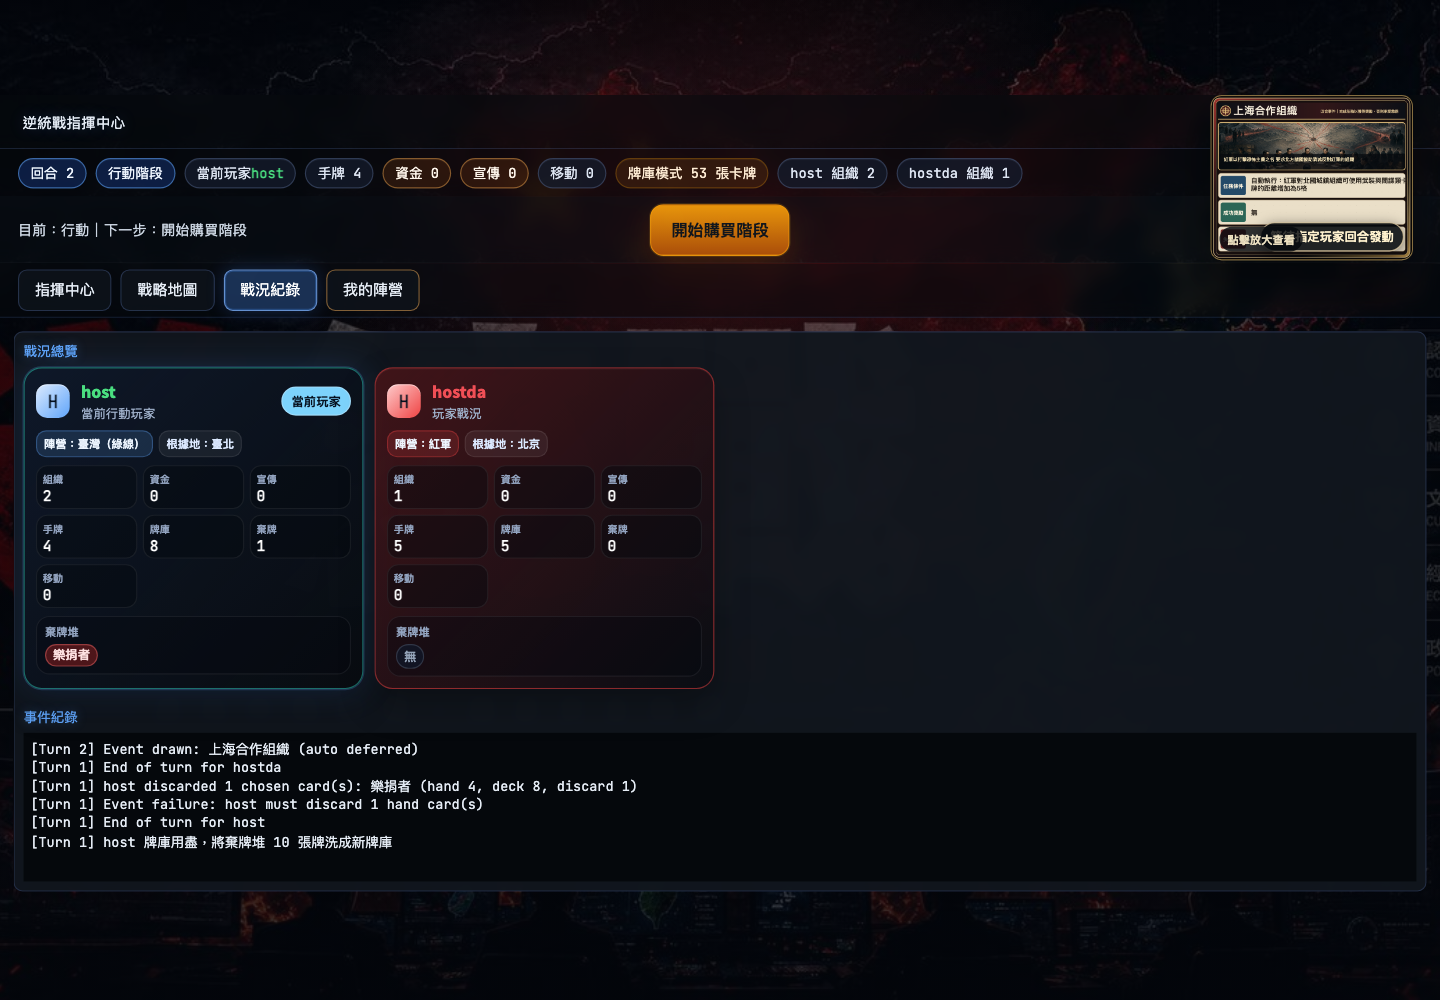
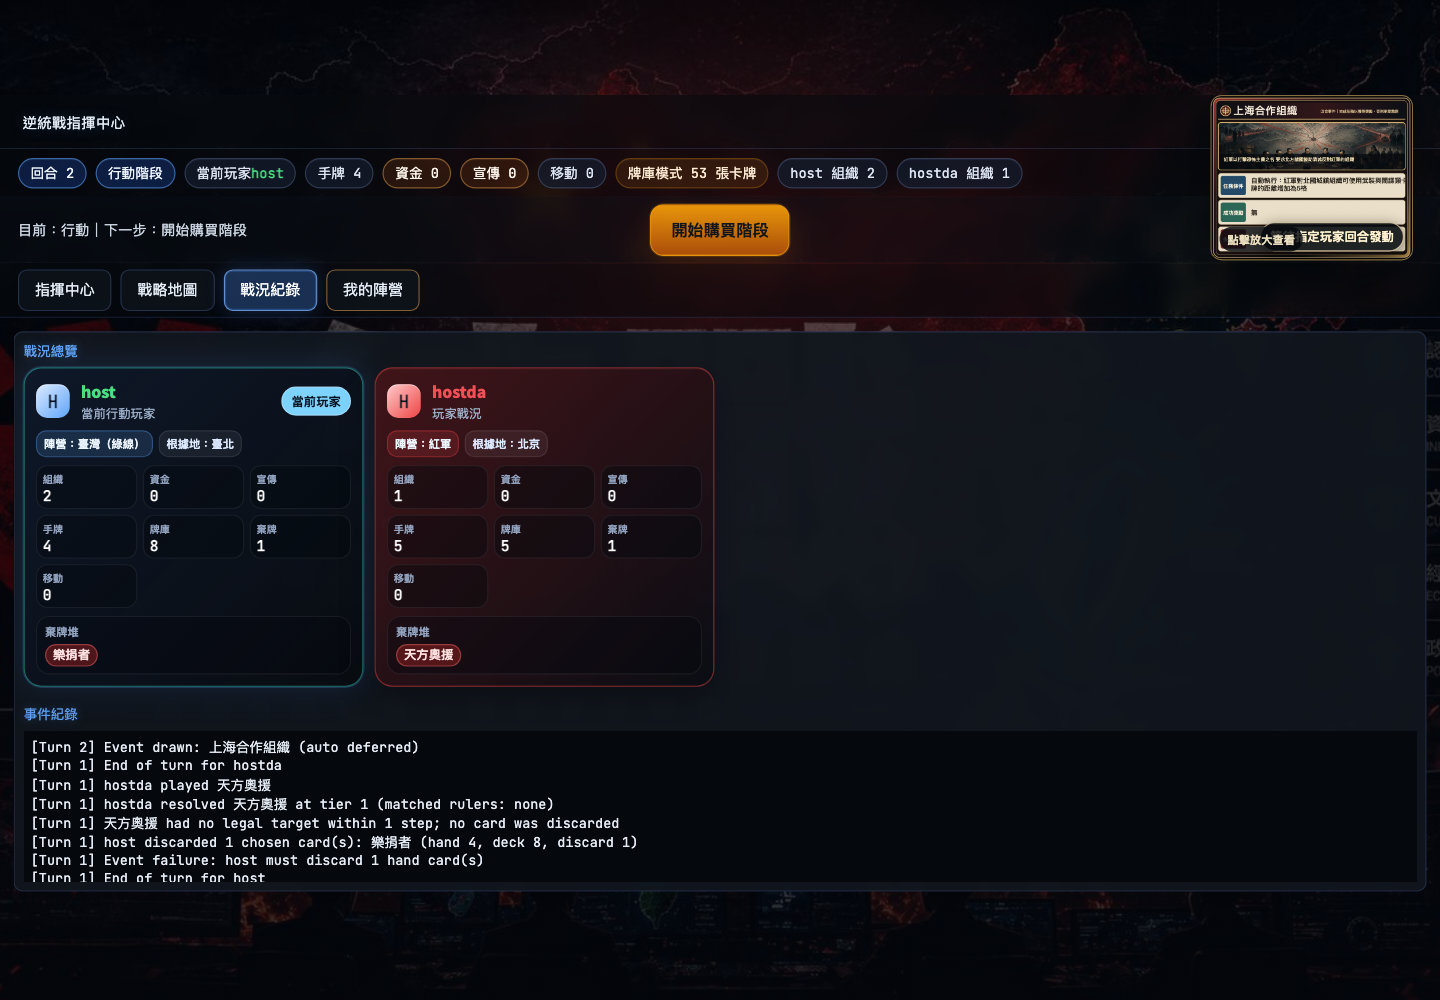
fix Tianfang support out-of-range discard

Changed region(s): [[0.0, 0.682, 0.4375, 0.899], [0.25, 0.62, 0.3438, 0.713]]

diff --git a/scripts/validate_red_end_turn_single_discard.py b/scripts/validate_red_end_turn_single_discard.py
@@ -160,6 +160,17 @@ def run_elite_defection_scenario(browser):
       const factionClose = document.getElementById('closeFactionActionModal');
       if (factionClose) factionClose.click();
     }""")
+    red_page.click('button.hand-card-action-btn[data-card-name="天方奧援"][data-card-mode="action"]')
+    red_page.wait_for_function(
+        '() => (window.lastGameState?.action_log || []).some(line => line.includes("天方奧援 had no legal target within 1 step"))',
+        timeout=10000,
+    )
+    page.wait_for_function(
+        '() => (window.lastGameState?.action_log || []).some(line => line.includes("天方奧援 had no legal target within 1 step"))',
+        timeout=10000,
+    )
+    after_tianfang_state = page.evaluate('() => window.lastGameState')
+    after_tianfang = player_snapshot(after_tianfang_state, fixture['player_id'])
     red_page.click('#advanceStepBtn')
     red_page.wait_for_function('() => window.lastGameState?.turn_phase === "end"')
     red_page.click('#advanceStepBtn')
@@ -188,8 +199,10 @@ def run_elite_defection_scenario(browser):
         and after['deck_count'] == 8
         and after['discard_count'] == 1
         and after['discard_pile'] == ['樂捐者']
+        and after_tianfang == after
         and after_red_turn == after
         and any('host discarded 1 chosen card(s): 樂捐者 (hand 4, deck 8, discard 1)' in line for line in action_log)
+        and any('天方奧援 had no legal target within 1 step; no card was discarded' in line for line in next_round_log)
         and any('Event drawn: 上海合作組織' in line for line in next_round_log)
         and not console_errors
     )
@@ -199,6 +212,7 @@ def run_elite_defection_scenario(browser):
         'before': before,
         'pending_after_refill': pending,
         'after': after,
+        'after_tianfang_no_legal_target': after_tianfang,
         'after_red_turn_and_shanghai_event': after_red_turn,
         'action_log': action_log,
         'next_round_log': next_round_log,

diff --git a/server/game.py b/server/game.py
@@ -3120,14 +3120,11 @@ class Game:
             if not built:
                 pass
         elif effect_type == 'force_discard_near':
-            count = int(payload.get('count', 0) or 0)
-            random_pick = bool(payload.get('random'))
-            target = next((other for other in self.players if other is not player and other.hand), None)
-            if target:
-                for _ in range(min(count, len(target.hand))):
-                    idx = 0 if not random_pick else random.randrange(len(target.hand))
-                    discarded = target.hand.pop(idx)
-                    target.deck.discard([discarded])
+            # This effect is always interactive. Reaching this branch means there was no
+            # player with hand cards within one step of the actor's organizations. Do not
+            # fall back to an arbitrary opponent: that bypasses range and (at tier 1)
+            # silently discards the first card without the target's required choice.
+            self.log(f"{card_name} had no legal target within 1 step; no card was discarded")
         self.log(f"{player.name} resolved {card_name} at tier {tier} (matched rulers: {', '.join(matched) if matched else 'none'})")
         return {'tier': tier, 'matched_rulers': matched, 'effect_type': effect_type, 'effect_text': self._support_card_effect_text(card_name, tier, region_index)}
 

diff --git a/scripts/tests/test_action_card_regressions.py b/scripts/tests/test_action_card_regressions.py
@@ -838,6 +838,28 @@ def test_cancel_reaction_prompt_can_select_one_reaction_card_to_cancel_action():
     assert g.turn_log.get('canceled_card') is True
 
 
+def test_tianfang_support_with_no_in_range_target_does_not_silently_discard():
+    g = make_game()
+    actor, target = g.players
+    actor.hand = [g._make_support_card('天方奧援')]
+    actor.organizations = {'北京': 1}
+    target.organizations = {'臺北': 1}
+    first_donor = Card('樂捐者', 'resource', {'money': 1})
+    second_donor = Card('樂捐者', 'resource', {'money': 1})
+    target.hand = [first_donor, Card('其他手牌', 'command', {})]
+    target.deck.draw_pile = [Card(f'牌庫{i}', 'command', {}) for i in range(8)]
+    target.deck.discard_pile = [second_donor]
+
+    result = g.play_card(0, mode='action')
+
+    assert result.get('success'), result
+    assert not result.get('pending_choice')
+    assert names(target.hand) == ['樂捐者', '其他手牌']
+    assert len(target.deck.draw_pile) == 8
+    assert names(target.deck.discard_pile) == ['樂捐者']
+    assert any('天方奧援 had no legal target within 1 step' in line for line in g.action_log)
+
+
 def test_tianfang_support_tier1_prompts_actor_target_choice_then_target_discard_choice():
     g = make_game()
     p1, p2 = g.players

diff --git a/server/main.py b/server/main.py
@@ -2237,7 +2237,7 @@ def test_setup_elite_defection_discard_proof(payload: dict):
     host.hand = []
     host.deck.draw_pile = [Card("牌庫甲", "command", {}), Card("牌庫乙", "command", {}), selected_donor]
     host.deck.discard_pile = [played_donor] + [Card(f"既有棄牌{i}", "command", {}) for i in range(9)]
-    red.hand = [Card(f"紅軍手牌{i}", "command", {}) for i in range(5)]
+    red.hand = [game._make_support_card("天方奧援")] + [Card(f"紅軍手牌{i}", "command", {}) for i in range(4)]
 
     game.game_phase = GamePhase.MAIN
     game.turn_phase = TurnPhase.END

diff --git a/scripts/tests/test_current_playtest_batch.py b/scripts/tests/test_current_playtest_batch.py
@@ -76,7 +76,9 @@ def test_elite_defection_failure_after_refill_discards_exactly_one_named_card():
     assert len(host.hand) == 4
     assert len(host.deck.draw_pile) == 8
     assert host.deck.discard_pile == [selected_donor]
-    assert played_donor in host.deck.draw_pile
+    remaining_non_discard = host.hand + host.deck.draw_pile
+    assert played_donor in remaining_non_discard
+    assert sum(card is played_donor for card in remaining_non_discard) == 1
     assert any('host discarded 1 chosen card(s): 樂捐者' in line for line in game.action_log)
 
 

diff --git a/TODO.md b/TODO.md
@@ -88,14 +88,15 @@
   - 需檢查：`北國奧援` 各級效果的 pending-choice 建立與結算時點、support card 出牌是否過早移出手牌、choice cancellable policy、前端取消按鈕，以及取消後的卡牌／行動／階段狀態還原。
   - 2026-07-29 已修正：初始選擇可交易式取消，還原卡牌位置、購買費用旗標與 pending；第一個目標結算後取消即關閉。同步修正 III 級 `count:2` 連續瓦解。unit 7/7 與 browser `BEIGUO_TWO_STAGE_DISSOLVE_VALIDATION` 7/7。
 
-- [investigating] Playtest deck lifecycle investigation：紅軍結束回合時棄牌堆似乎會被直接清空，且可能沒有正確洗回牌庫。
+- [done] Playtest deck lifecycle investigation：紅軍結束回合時棄牌堆似乎會被直接清空，且可能沒有正確洗回牌庫。
   - 2026-07-29 回報情境：紅軍只要結束回合，畫面上的紅軍棄牌堆就直接變空；同時懷疑這些牌沒有經過洗牌進入新的抽牌堆。
   - 期望：結束回合不應無條件清空棄牌堆；棄牌應持續保留，只有抽牌堆需要補充時才依規則將棄牌堆洗牌後轉成新的抽牌堆，且所有卡牌總數與區域歸屬必須守恆。
   - 需檢查：紅軍 `_end_turn`／補牌流程、`Deck.draw()` 的棄牌重洗邏輯、紅軍專屬牌與借用卡的棄牌目的地、state 序列化的 discard projection，以及 UI 是否只是錯誤隱藏而非後端真的清空。
   - 2026-07-30 釐清：判斷是否洗牌的關鍵不是棄牌堆張數，而是「本次補到 5 張的過程是否耗盡牌庫」。正式 UI 確定性重現：手牌 4／牌庫 1／棄牌 1 時，結束回合後棄牌仍為 1；手牌 4／牌庫 0／棄牌 1 時，該棄牌依規則洗成新牌庫並立刻被抽入手牌，棄牌顯示為 0。兩情境卡牌總數與身分均守恆。
   - 可觀察性修正：只有確實發生洗牌時，action log 新增「牌庫用盡，將棄牌堆 N 張牌洗成新牌庫」；未洗牌時不顯示。正式 browser proof `RED_END_TURN_SINGLE_DISCARD_VALIDATION` 2/2，兩情境皆由可見「結束回合」按鈕操作、console 0 error。
   - 2026-07-31 新回報：`host` 打出 1 張樂捐者後，10 張棄牌在回合結束補牌時洗回；`紅軍權貴出逃`失敗再選擇棄 1 張，但下一輪 `上海合作組織`開始時 UI 顯示手牌 3／牌庫 8／棄牌 2，兩張皆為樂捐者。這與 action log 的單次 chosen discard 不一致。
-  - 精確重現目前未失敗：同樣的手牌 0／牌庫 3／棄牌 10、延後結算紅軍權貴出逃、選擇樂捐者、紅軍回合結束、下一輪上海合作組織完整正式 UI 路徑，得到手牌 4／牌庫 8／棄牌 1；browser proof 3/3、backend 隨機洗牌 500 次 0 failures。暫不把現場觀察判成誤記，項目重開為 investigating；chosen-discard log 改記卡名及結算後 hand/deck/discard 數，供下一次定位未記錄的第二次 zone transition。
+  - 精確重現初期未失敗：同樣的手牌 0／牌庫 3／棄牌 10、延後結算紅軍權貴出逃、選擇樂捐者、紅軍回合結束、下一輪上海合作組織路徑本身只產生手牌 4／牌庫 8／棄牌 1；藉此排除事件重複結算。
+  - 2026-07-31 root cause／修正：第二張其實由 `hostda` 隨後打出的 `天方奧援`造成。當紅軍一格內沒有合法、有手牌的目標時，interactive flow 回傳無目標，但 `_execute_support_card()` 又錯誤進入舊 fallback，忽略距離、任取其他玩家並靜默 `pop(0)`；因此把 host 手牌第一張樂捐者移入棄牌堆且沒有明確 log。已刪除任意玩家 fallback；無合法目標時不棄任何牌並記錄 no-target。合法目標的正常互動選擇／隨機棄牌保持不變。天方奧援 regression 3/3、完整正式 UI deck lifecycle 3/3、backend focused 14/14，console 0 error。
 
 #### 2026-07-29 本批修正順序（source-backed triage）
 1. **牌堆生命週期／卡牌守恆（P0，M）**：先用紅軍回合結束的真實路徑確認「抽牌堆未空時棄牌保留、抽牌堆空時才洗回」與總卡數守恆；這是最可能造成卡牌永久遺失的項目，先排除資料破壞，再處理其他卡牌互動。

diff --git a/docs/records/deck-lifecycle/RED_END_TURN_SINGLE_DISCARD_VALIDATION.md b/docs/records/deck-lifecycle/RED_END_TURN_SINGLE_DISCARD_VALIDATION.md
@@ -18,5 +18,5 @@
 ## elite_defection_failure_discards_exactly_one_after_refill
 - PASS：True
 - Before：`{'hand': [], 'deck_count': 3, 'discard_count': 10, 'discard_pile': ['樂捐者', '既有棄牌0', '既有棄牌1', '既有棄牌2', '既有棄牌3', '既有棄牌4', '既有棄牌5', '既有棄牌6', '既有棄牌7', '既有棄牌8']}`
-- After：`{'hand': ['牌庫乙', '牌庫甲', '既有棄牌2', '既有棄牌8'], 'deck_count': 8, 'discard_count': 1, 'discard_pile': ['樂捐者']}`
+- After：`{'hand': ['牌庫乙', '牌庫甲', '既有棄牌0', '既有棄牌4'], 'deck_count': 8, 'discard_count': 1, 'discard_pile': ['樂捐者']}`
 - Screenshot：`/Users/benmini/.openclaw/workspace/redline/docs/records/deck-lifecycle/RED_ELITE_DEFECTION_SINGLE_DISCARD.png`
